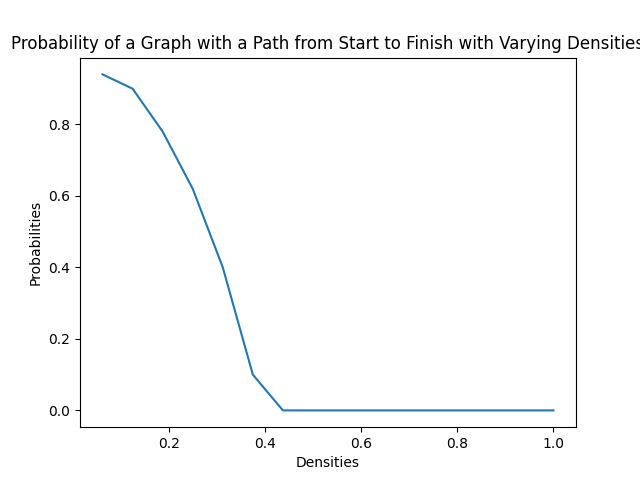
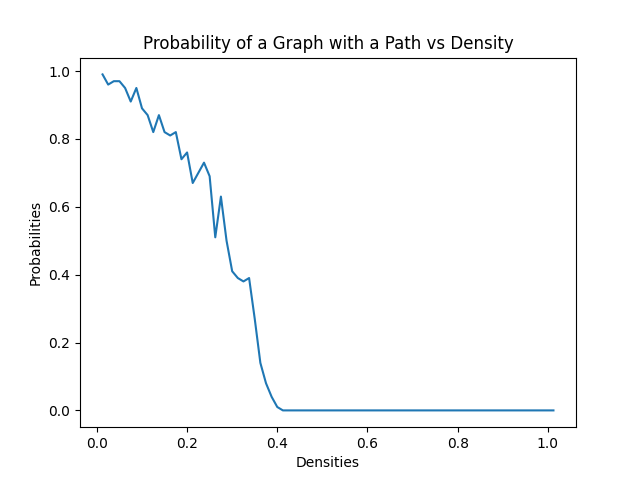
Redid the tests for problem 2 to store the data in a json

diff --git a/problem_2_plot.py b/problem_2_plot.py
@@ -1,11 +1,12 @@
 import matplotlib.pyplot as plt
 import maze
 import dfs
+import json
 
 width = 100
 height = 100
-tries = 50
-interval = .0625
+tries = 100
+interval = .0125
 
 densities = [] # X axis
 probabilities = [] # Y axis
@@ -28,8 +29,18 @@ while density < 1: # for each density
     densities.append(density)
     probabilities.append(probability)
 
+data = json.dumps(
+    {
+        "densities" : densities,
+        "probabilities" : probabilities,
+    }
+)
+file = open("./test_results/Probability of a Graph with a Path vs Density.json", "w+")
+file.write(data)
+file.close()
+
 plt.plot(densities, probabilities)
 plt.xlabel("Densities")
 plt.ylabel("Probabilities")
-plt.title("Probability of a Graph with a Path from Start to Finish with Varying Densities")
+plt.title("Probability of a Graph with a Path vs Density")
 plt.show()
